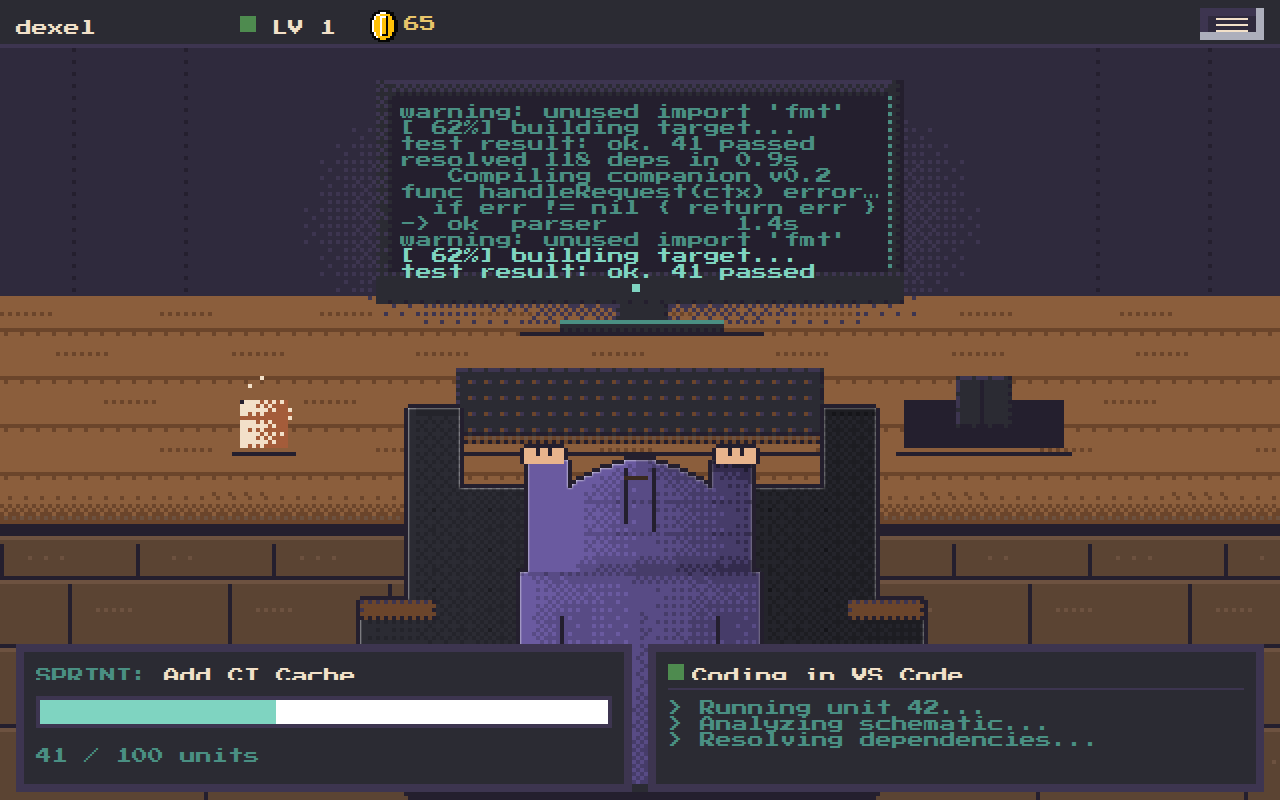
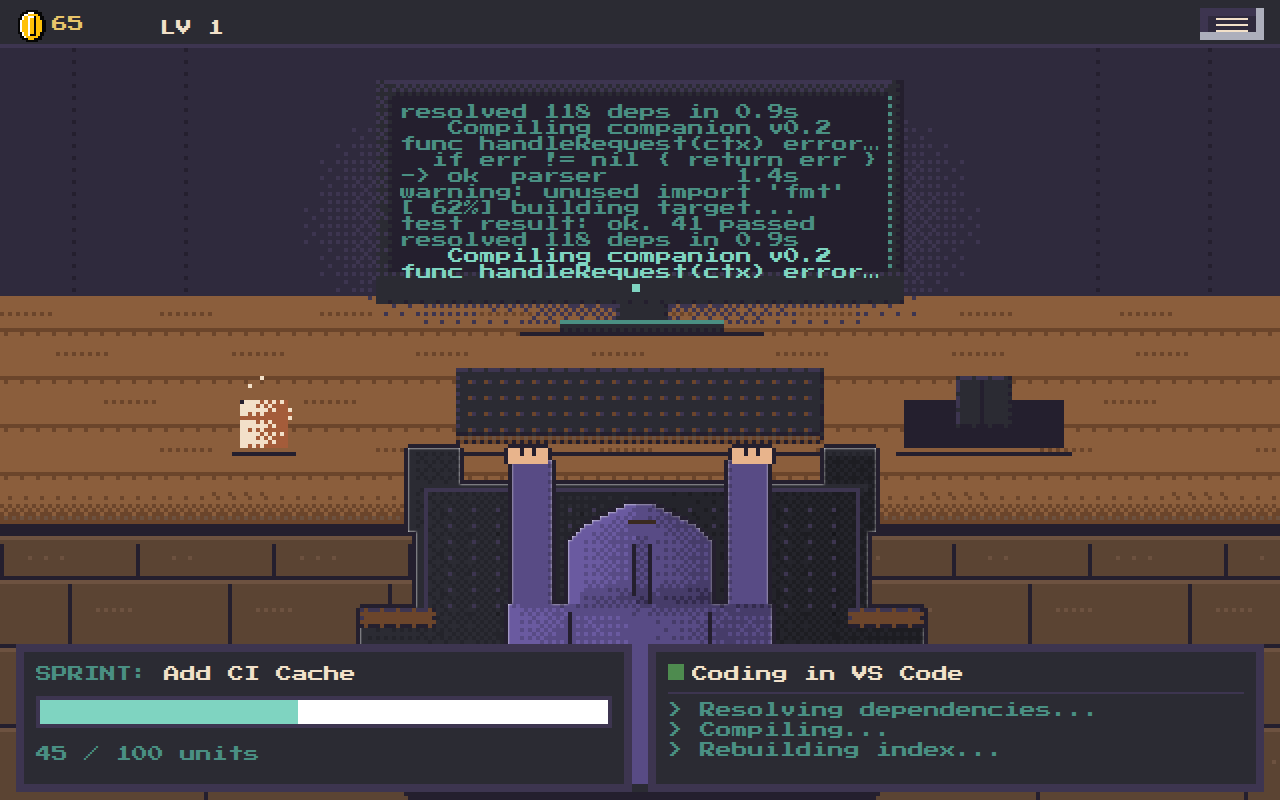
docs: refresh screenshots to current UI (new bar, seated chair, menu)
Re-captured hero/store/history from the real running game so they show the
top-left coin+level, the hamburger menu, and the redrawn seated character.
Fixed the hero image alt text (it now shows dexel, not the old wordmark).

Claude-Session: https://claude.ai/code/session_01AUCCPCv7iGyM8erbdKH5UY

diff --git a/README.md b/README.md
@@ -2,7 +2,7 @@
 
 A cozy pixel-art desktop companion whose workday runs on *your* real typing.
 
-![dev companion running with a live sprint, terminal, and status line](docs/images/hero.png)
+![dexel running with a live sprint, terminal, and status line](docs/images/hero.png)
 
 ## What is this
 
